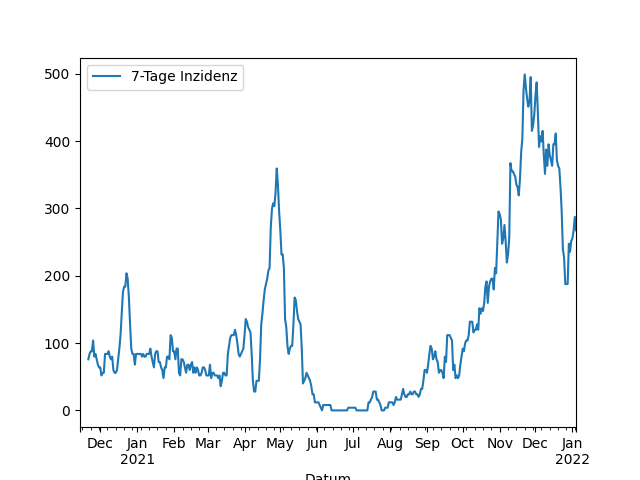
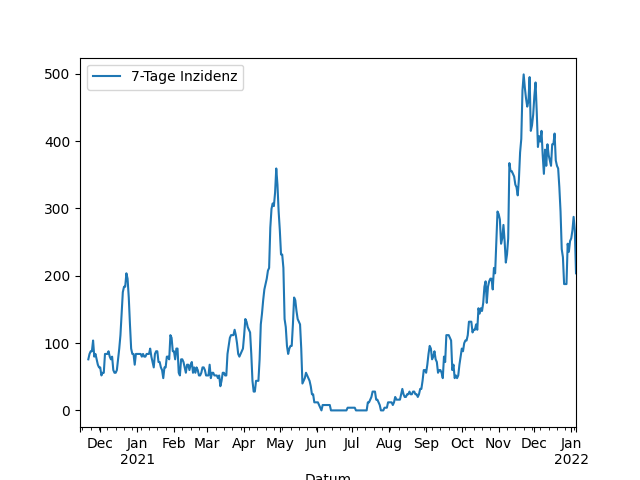
Update images

diff --git a/_includes/aktuelle_inzidenz.md b/_includes/aktuelle_inzidenz.md
@@ -1,1 +1,1 @@
-267,4
+203,6
